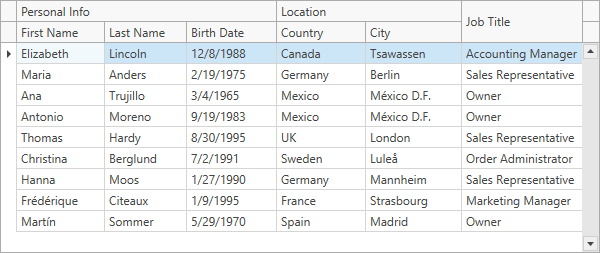
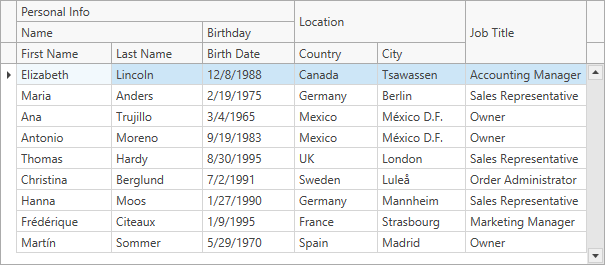
Multilevel Band Structure

diff --git a/CS/GridMVVMBandsSample/MainWindow.xaml b/CS/GridMVVMBandsSample/MainWindow.xaml
@@ -15,10 +15,17 @@
         <DataTemplate x:Key="ColumnTemplate">
             <dxg:GridColumn FieldName="{Binding Path=(dxci:DependencyObjectExtensions.DataContext).FieldName, RelativeSource={RelativeSource Self}}"/>
         </DataTemplate>
+        <DataTemplate x:Key="ChildBandTemplate">
+            <dxg:GridControlBand Header="{Binding Path=(dxci:DependencyObjectExtensions.DataContext).Header, RelativeSource={RelativeSource Self}}"  
+                                 ColumnsSource="{Binding Path=(dxci:DependencyObjectExtensions.DataContext).ChildColumns, RelativeSource={RelativeSource Self}}"  
+                                 ColumnGeneratorTemplate="{StaticResource ColumnTemplate}"/>
+        </DataTemplate>
         <DataTemplate x:Key="MultiColumnBandTemplate">
             <dxg:GridControlBand Header="{Binding Path=(dxci:DependencyObjectExtensions.DataContext).Header, RelativeSource={RelativeSource Self}}" 
                                  ColumnsSource="{Binding Path=(dxci:DependencyObjectExtensions.DataContext).ChildColumns, RelativeSource={RelativeSource Self} }" 
-                                 ColumnGeneratorTemplate="{StaticResource ColumnTemplate}"/>
+                                 ColumnGeneratorTemplate="{StaticResource ColumnTemplate}"
+                                 BandsSource="{Binding Path=(dxci:DependencyObjectExtensions.DataContext).ChildBands, RelativeSource={RelativeSource Self}}"
+                                 BandGeneratorTemplate="{StaticResource ChildBandTemplate}"/>
         </DataTemplate>
         <DataTemplate x:Key="SingleColumnBandTemplate">
             <dxg:GridControlBand Header="{Binding Path=(dxci:DependencyObjectExtensions.DataContext).Header, RelativeSource={RelativeSource Self}}" 

diff --git a/CS/GridMVVMBandsSample/EmployeesViewModel.cs b/CS/GridMVVMBandsSample/EmployeesViewModel.cs
@@ -9,24 +9,39 @@ namespace GridMVVMBandsSample {
             Bands = new ObservableCollection<Band>() {
                 new Band(
                     "Personal Info",
-                    new ObservableCollection<Column>() {
-                        new Column( nameof(Employee.FirstName) ),
-                        new Column( nameof(Employee.LastName) ),
-                        new Column( nameof(Employee.BirthDate) )
+                    new ObservableCollection<Column>(),
+                    new ObservableCollection<Band>() {
+                        new Band (
+                            "Name",
+                            new ObservableCollection<Column>() {
+                                new Column(nameof(Employee.FirstName)),
+                                new Column(nameof(Employee.LastName))
+                            },
+                            new ObservableCollection<Band>()
+                        ),
+                        new Band (
+                            "Birthday",
+                            new ObservableCollection<Column>() {
+                                new Column(nameof(Employee.BirthDate))
+                            },
+                            new ObservableCollection<Band>()
+                        )
                     }
                 ),
                 new Band(
                     "Location",
                     new ObservableCollection<Column>() {
-                        new Column( nameof(Employee.Country) ),
-                        new Column( nameof(Employee.City) )
-                    }
+                        new Column(nameof(Employee.Country)),
+                        new Column(nameof(Employee.City))
+                    },
+                    new ObservableCollection<Band>()
                 ),
                 new Band(
                     "Position",
                     new ObservableCollection<Column>() {
-                        new Column( nameof(Employee.JobTitle) )
-                    }
+                        new Column(nameof(Employee.JobTitle))
+                    },
+                    new ObservableCollection<Band>()
                 )
             };
         }
@@ -40,11 +55,13 @@ namespace GridMVVMBandsSample {
         public string FieldName { get; }
     }
     public class Band : BindableBase {
-        public Band(string header, ObservableCollection<Column> childcolumns) {
+        public Band(string header, ObservableCollection<Column> childcolumns, ObservableCollection<Band> childbands) {
             Header = header;
             ChildColumns = childcolumns;
+            ChildBands = childbands;
         }
         public string Header { get; }
         public ObservableCollection<Column> ChildColumns { get; }
+        public ObservableCollection<Band> ChildBands { get; }
     }
 }

diff --git a/CS/GridMVVMBandsSample/BandTemplateSelector.cs b/CS/GridMVVMBandsSample/BandTemplateSelector.cs
@@ -10,7 +10,7 @@ namespace GridMVVMBandsSample {
         public override DataTemplate SelectTemplate(object item, DependencyObject container) {
             Band band = item as Band;
             if(band == null) return null;
-            if(band.ChildColumns.Count == 1) {
+            if(band.Header == "Position") {
                 return SingleColumnBandTemplate;
             }
             return MultiColumnBandTemplate;
